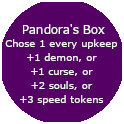
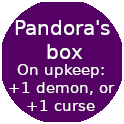
SPEL: Lite sämre waylings

diff --git a/regler.md b/regler.md
@@ -1,17 +1,50 @@
+# Regler för "hellgame"
+- [Regler för "hellgame"](#regler-för-hellgame)
+- [Start](#start)
+- [Turordning](#turordning)
+- [Upkeep](#upkeep)
+- [Cirklar](#cirklar)
+- [Förflyttning](#förflyttning)
+  - [Speed tokens](#speed-tokens)
+  - [Portaler](#portaler)
+  - [Waylings](#waylings)
+- [Mana / Spells](#mana--spells)
+- [Plocka upp / placera ut demoner](#plocka-upp--placera-ut-demoner)
+- [Specialrutor](#specialrutor)
+  - [Portaler](#portaler-1)
+  - [Källor (gröna)](#källor-gröna)
+  - [Factories](#factories)
+  - [Events](#events)
+  - [Traders](#traders)
+  - [Items](#items)
+- [Appendix A - Events](#appendix-a---events)
+- [Appendix B - Items](#appendix-b---items)
+
+
 # Start
 
+- Bestäm vem som ska ha first player token.
 - Spelaren som ska börja sätter ut sin pjäs först, sedan nästa spelare, etc.
 - Man måste sätta ut sin pjäs i första cirkeln, vid en övergång till andra cirkeln.
 - Resurser
   - 3 demoner
   - 3 själar
-  - Spelaren som börjar får 0 speed tokens, nästa spelare 1, nästa 2, etc.
+  - 1 speed token
 
-# Speed tokens
+# Turordning
 
-- Om man spenderar en speed token så får man gå två steg längre den rundan.
-- Man får spendera en speed token per runda.
-- Man får omvandla 6 speed tokens till Boots of Speed +1.
+1. [Förflyttning](#förflyttning)
+2. Effekt av [specialruta](#specialrutor)
+3. [Spells](#mana--spells)
+4. [Plocka upp / placera ut demoner](#plocka-upp--placera-ut-demoner)
+
+# Upkeep
+
+ - När alla spelare har tagit varsin tur så flyttas upkeep token ett steg.
+ - Efter 6 varv är det upkeep:
+   - First player token flyttas medsols
+   - Alla gröna cirklar vänds upprätt
+   - Alla spelare får resurser från sina factories.
 
 # Cirklar
 
@@ -20,27 +53,46 @@
 - Cirkeln låses upp när spelaren går in i den - då är spelaren movement slut för den rundan (även om hen hade movement kvar eller speed tokens)
 - När en cirkel väl är upplåst så har man alltid tillgång till den.
 
-# Curses
+# Förflyttning
 
-Man får använda 1 curse per runda, _efter_ movement.
+Spelare får gå 0, 1, eller 2 steg per tur.
 
-Curse-tabellen:
-| Tokens | Effect |
+## Speed tokens
+
+ * En gång per tur får man förbruka en **speed token**. Då går man upp till två steg extra.
+ * Varje **permanent speed token** ger möjligheten att gå ett steg extra varje tur.
+
+## Portaler
+
+- Spelare kan flytta sig mellan portaler. Det kostar ett steg.
+- Man kan bara gå till portaler som ligger i cirklar som man har låst upp.
+
+## Waylings
+
+Spelare kan flytta sig till sina egna utlagda demoner (som inte ligger på factories). Det kostar ett steg.
+
+# Mana / Spells
+
+Man får använda 1 spell per runda.
+
+Spell-tabellen:
+| Kostnad | Effect |
 | ------ | ----------------------------------------------------------------------------------------------------------- |
-| 1 | -1 movement until next upkeep for target player |
-| 1 | Take control of any demon on the square at which you are standing (including demons owned by other players) |
-| 1 | Steal 1 souls from target player |
+| 1 | Flytta upkeep countern ett steg framåt eller bakåt |
+| 1 | Ta kontroll över en demon på rutan där du står |
+| 1 | Steal 1 soul från en annan spelare |
+| 1 | Stjäl 1 speed token från en annan spelare |
 
-# Items
+# Plocka upp / placera ut demoner
 
-- Pandoras box: at every upkeep, choose: +1 demon / +1 curse token / +3 speed tokens
-- Boots of speed +1
+- Man får lägga ut demoner på rutan där man står, förutsatt att det är en vanlig ruta eller ett factory.
+- Man får betala X souls för att plocka upp X av sina egna demoner på rutan där man står.
 
 # Specialrutor
 
 ## Portaler
 
-- Man får gå genom en portal som att det vore _ett_ vanligt steg, men man kan inte låsa upp cirklar via portaler.
+Se [portaler](#portaler)
 
 ## Källor (gröna)
 
@@ -50,10 +102,46 @@ Curse-tabellen:
 
 ## Factories
 
-- En spelare får lägga max 1 demon på ett factory, och får då dess bonus vid varje upkeep.
-- Om en spelare kommer till ett factory med _en annan spelares demon_ så kan hen "ta över" factoriet genom att placera ut två demoner där.
-  Detta zombifierar den existerande demonen (i praktiken dödar), och göra att spelaren med två demoner låser upp mer produktion från factoriet.
+- Ett factory kan ha max 2 demoner.
+- En spelare som har demoner på ett factory får dess bonus vid varje upkeep.
+- Om två demoner från samma spelare ligger på ett factory vänds det upp-och-ned, och ger en utökad effekt (när factoryt inte längre har två demoner från samma spelare vänds det tillbaks igen).
 
-# Portaldemoner / Waylings
+## Events
 
-- Man får lägga ut en demon på en vanlig ruta (ej specialruta) man står på, landar på, eller passerar genom. När som helst kan man använda _ett_ steg för att teleportera sig till en portaldemon.
+Händer en gång, sedan försvinner brickan.
+
+## Traders
+
+En gång per tur
+
+## Items
+
+Först till kvarn får brickan.
+
+# Appendix A - Events
+
+- **Hinderance**
+  - Det går inte att stå på, eller passera, rutor som har en blockad.
+  - Det måste alltid gå att komma åt alla (oblockerade) rutor på något sätt.
+  - Placera två blockader på vanliga rutor (vilka som helst).
+- **Clear circle**
+  - Välj en cirkel. Alla demoner i den cirkeln (factories, waylings) tas tillbaks av respektive ägare.
+- **Eclipse**
+  - Placera eclipse-markören vid upkeep-räknaren.
+  - Ta bort eclipse-markören när upkeep-räknaren kommer till eclipse-markören.
+  - Inga portaler eller waylings får användas så länge som eclipse-markören finns.
+- **Place portal**
+  - Placera ut portalmarkören på valfri vanlig ruta (i en cirkel du låst upp).
+  - Portalmarkören beter sig som en vanlig portal.
+- **Steal 2 souls**
+  - Varje spelare ger dig två själar (om de har två. Annars så många som de har)
+
+# Appendix B - Items
+
+- **Pandoras box**
+  - Varje upkeep, välj: +1 demon / +1 curse token
+- **Flux**
+  - Om flux är upprätt kan du vända på flux och gå till vilken portal som helst (det kostar ett steg).
+  - Flux vänds upprätt på varje upkeep.
+- **Boots of speed +1**
+  - Ger permanent +1 speed
